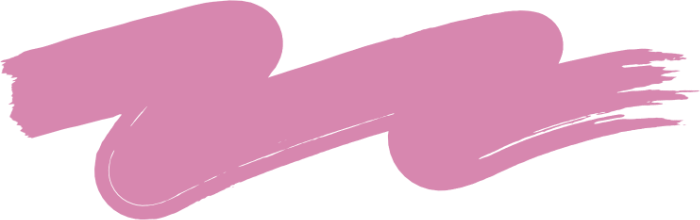
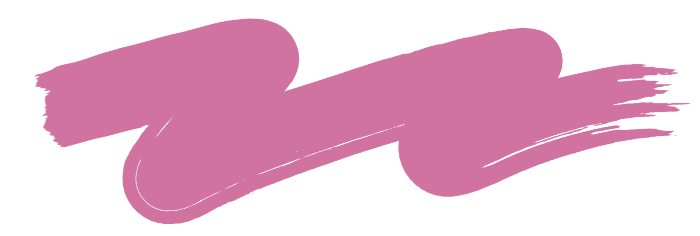
:bento: regenerate swashes
since i updated the accent colors this seemed like a good move. the colors of the swatches are actually reversed, because its what looks best

diff --git a/src/pages/recipes/[slug].tsx b/src/pages/recipes/[slug].tsx
@@ -76,7 +76,7 @@ const RecipePage: React.FC<RecipePageProps> = ({
       >
         <img
           width="512"
-          height="180"
+          height="182"
           alt=""
           src={`/images/recipe-swash-${colorMode}.png`}
           srcSet={`/images/recipe-swash-${colorMode}@2x.png 2x`}
